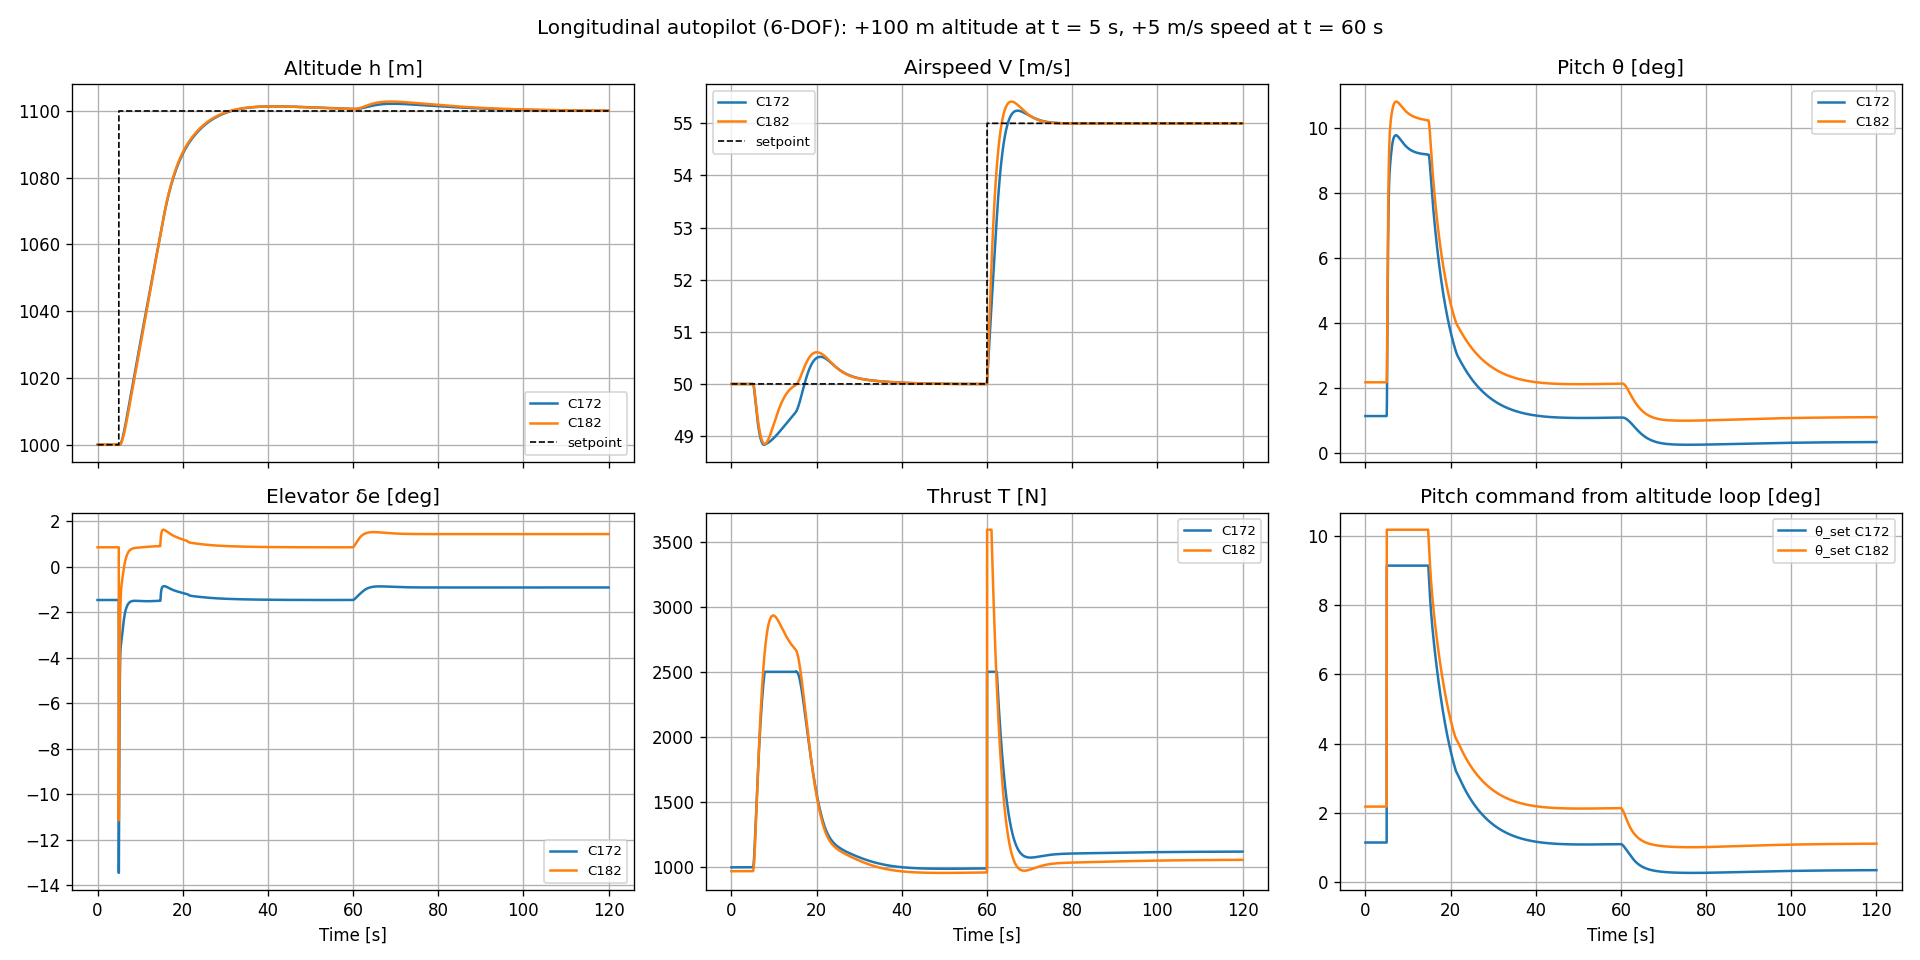
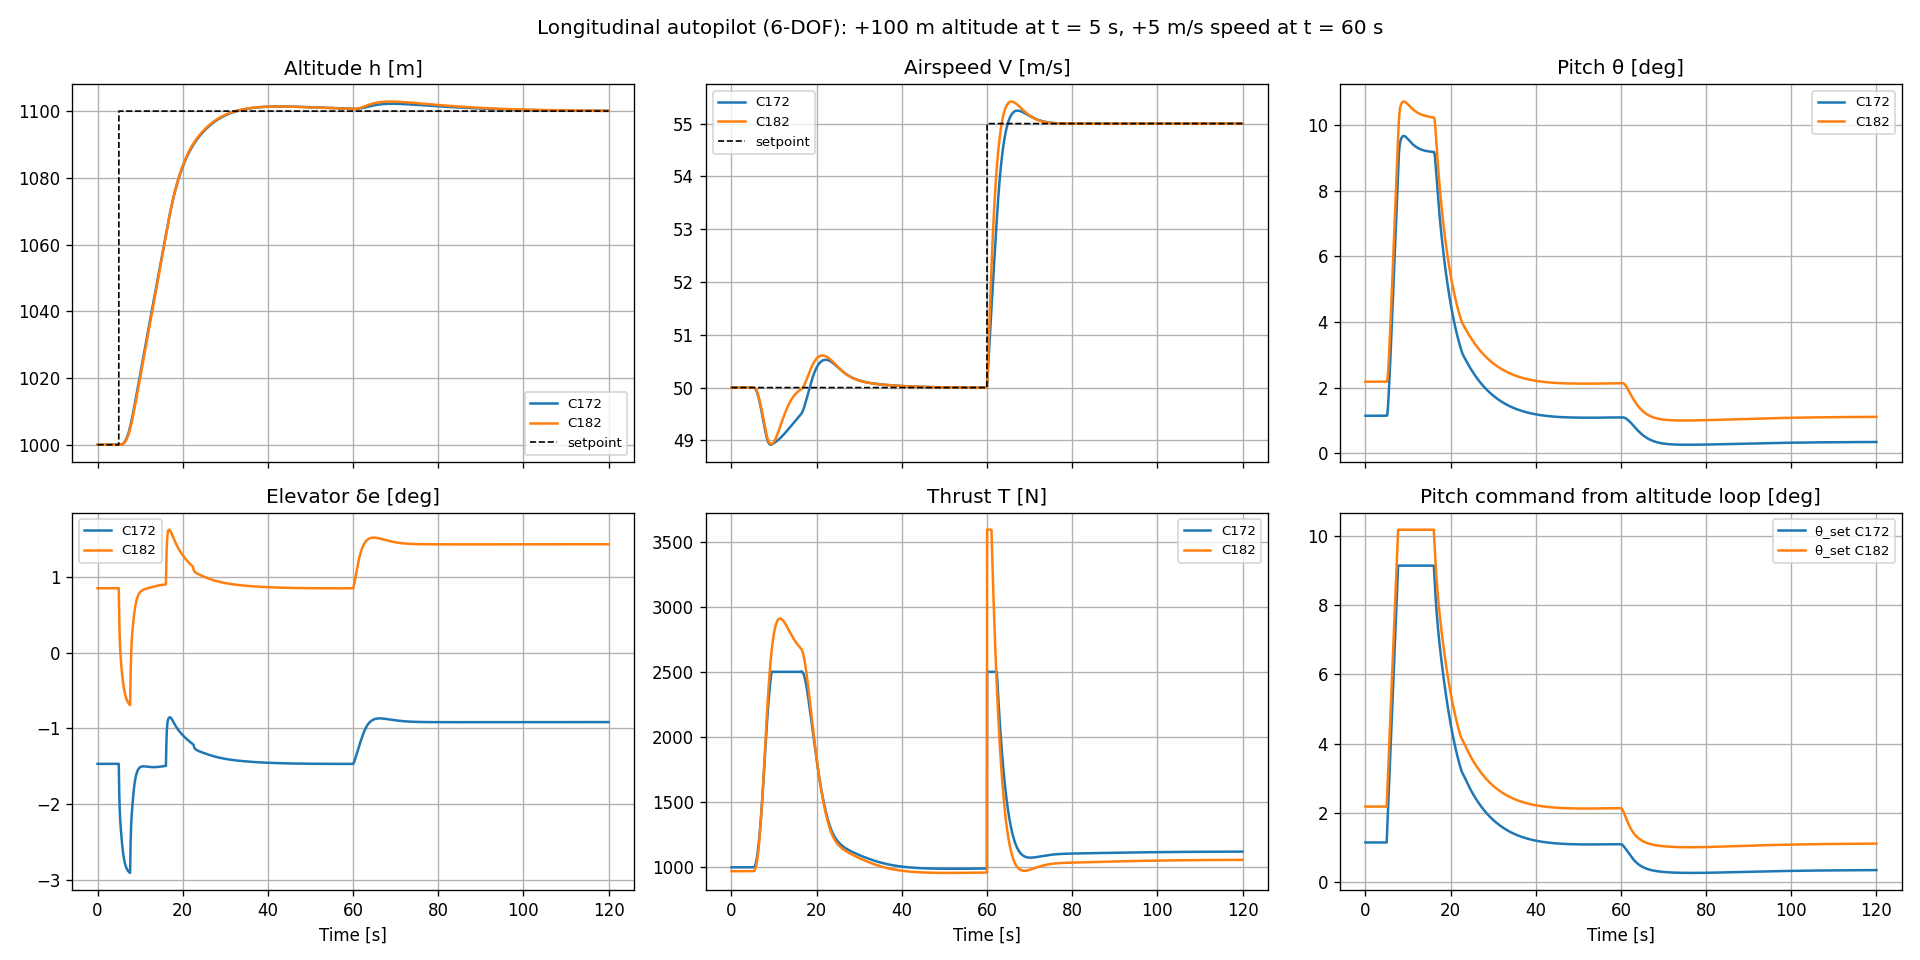
LQI longitudinal autopilot with gain scheduling, comparison with PID

diff --git a/src/aircraft/autopilot_lon_lqi.py b/src/aircraft/autopilot_lon_lqi.py
@@ -1,0 +1,184 @@
+"""
+Longitudinal autopilot as ONE MIMO controller: gain-scheduled LQI for altitude + airspeed.
+
+    States (longitudinal part of the 6-DOF state): x_lon = [u, w, q, theta, h]
+    Inputs:                                       [delta_e, T]
+    Tracked outputs:                              y = [V, h]
+    Integrators:                                  z_dot = r - y
+    Control law:  c = c0(V_set) - Kx(V) (x_lon - x0(V_set, h_set)) - Kz(V) z
+
+Gain scheduling (same idea as in Phase 3):
+    Kx, Kz   interpolated at the MEASURED airspeed
+    x0, c0   interpolated at the COMMANDED airspeed (feedforward of the trim point)
+"""
+import os
+import numpy as np
+import control as ct
+import matplotlib.pyplot as plt
+import aircraft
+from aircraft import p
+import flightdynamics_6dof as m6
+from trim_6dof import trim_6dof, linearize_6dof
+from autopilot_lon import LongitudinalAutopilot
+
+LON = [m6.U, m6.W, m6.Q, m6.THETA, m6.H]
+INPUTS = [m6.DE, m6.TH]
+V_GRID = np.arange(30.0, 65.01, 5.0)
+
+# Bryson weights: maximum acceptable deviations
+X_MAX = [2.0, 2.0, np.deg2rad(10.0), np.deg2rad(5.0), 10.0,   # du, dw, q, theta, h
+         5.0, 50.0]                                            # z_V [m], z_h [m·s]
+U_MAX = [np.deg2rad(10.0), 1000.0]                             # delta_e [rad], T [N]
+
+
+def design_point(V, h=1000.0):
+    """Trim, linearize and solve the LQI problem at one airspeed."""
+    x0, c0 = trim_6dof(V, h=h)
+    A, B = linearize_6dof(x0, c0)
+    A5, B2 = A[np.ix_(LON, LON)], B[np.ix_(LON, INPUTS)]
+    u0, w0 = x0[m6.U], x0[m6.W]
+    C = np.array([[u0 / V, w0 / V, 0, 0, 0],       # dV ≈ (u0 du + w0 dw) / V
+                  [0, 0, 0, 0, 1]])                 # dh
+    A_aug = np.block([[A5, np.zeros((5, 2))], [-C, np.zeros((2, 2))]])
+    B_aug = np.vstack([B2, np.zeros((2, 2))])
+    if np.linalg.matrix_rank(ct.ctrb(A_aug, B_aug)) < 7:
+        raise RuntimeError(f"not controllable at V = {V}")
+    Q = np.diag(1 / np.array(X_MAX)**2)
+    R = np.diag(1 / np.array(U_MAX)**2)
+    K, _, poles = ct.lqr(A_aug, B_aug, Q, R)
+    return x0[LON], c0, K[:, :5], K[:, 5:], poles
+
+
+def build_schedule():
+    rows = [design_point(V) for V in V_GRID]
+    return {"x0": np.array([r[0] for r in rows]), "c0": np.array([r[1] for r in rows]),
+            "Kx": np.array([r[2] for r in rows]), "Kz": np.array([r[3] for r in rows])}
+
+
+def interp(table, key, V):
+    data = table[key]
+    flat = data.reshape(len(V_GRID), -1)
+    vals = [np.interp(V, V_GRID, flat[:, i]) for i in range(flat.shape[1])]
+    return np.array(vals).reshape(data.shape[1:])
+
+
+class LQIAutopilotLon:
+    def __init__(self, schedule):
+        self.s = schedule
+        self.z = np.zeros(2)
+
+    def step(self, x, h_set, V_set, dt):
+        V, _, _ = m6.air_data(x)
+        x0 = interp(self.s, "x0", V_set)
+        x0[4] = h_set                                  # target altitude replaces trim altitude
+        c0 = interp(self.s, "c0", V_set)
+        Kx, Kz = interp(self.s, "Kx", V), interp(self.s, "Kz", V)
+
+        e = np.array([V_set - V, h_set - x[m6.H]])
+        u_cmd = c0[INPUTS] - Kx @ (x[LON] - x0) - Kz @ self.z
+        lo = np.array([p.delta_e_min, p.T_min])
+        hi = np.array([p.delta_e_max_6dof, p.T_max])
+        u = np.clip(u_cmd, lo, hi)
+
+        # anti-windup: freeze integrators if a saturated input would be driven further
+        freeze = any(u[j] != u_cmd[j] and np.sign(-Kz[j] @ e) == np.sign(u_cmd[j] - u[j])
+                     for j in range(2))
+        if not freeze:
+            self.z += e * dt
+
+        c = c0.copy()
+        c[m6.DE], c[m6.TH] = u
+        return c, None
+
+
+def shaped_refs(h0, V0, dh=100.0, dV=5.0, climb_rate=5.0, accel=1.0):
+    """Same smooth reference for both controllers: altitude ramp 5 m/s, speed ramp 1 m/s²."""
+    def refs(t):
+        h = h0 + np.clip((t - 5.0) * climb_rate, 0.0, dh)
+        V = V0 + np.clip((t - 60.0) * accel, 0.0, dV)
+        return h, V
+    return refs
+
+
+def simulate(name, make_controller, V0=50.0, h0=1000.0, t_end=120.0, dt=0.01, refs=None):
+    aircraft.load(name)
+    x, c0 = trim_6dof(V0, h=h0)
+    ctrl = make_controller(x, c0)
+    refs = refs or shaped_refs(h0, V0)
+    log = {k: [] for k in ["t", "h", "h_set", "V", "V_set", "de", "T"]}
+    for t in np.arange(0.0, t_end, dt):
+        h_set, V_set = refs(t)
+        c, _ = ctrl.step(x, h_set, V_set, dt)
+        x = m6.rk4_step(x, c, dt)
+        V, _, _ = m6.air_data(x)
+        for k, v in zip(log, [t, x[m6.H], h_set, V, V_set, np.rad2deg(c[m6.DE]), c[m6.TH]]):
+            log[k].append(v)
+    aircraft.load(aircraft.DEFAULT)
+    return {k: np.array(v) for k, v in log.items()}
+
+
+def pid_factory(x, c0):
+    return LongitudinalAutopilot(x, c0)
+
+
+def lqi_factory_for(name):
+    aircraft.load(name)
+    schedule = build_schedule()
+    return lambda x, c0: LQIAutopilotLon(schedule)
+
+
+def summary(r):
+    climb = (r["t"] >= 5) & (r["t"] < 60)
+    accel = r["t"] >= 60
+    return {
+        "max |h err| climb [m]": np.abs(r["h"] - r["h_set"])[climb].max(),
+        "max |V err| climb [m/s]": np.abs(r["V"] - r["V_set"])[climb].max(),
+        "max |h err| speed change [m]": np.abs(r["h"] - r["h_set"])[accel].max(),
+        "max |V err| speed change [m/s]": np.abs(r["V"] - r["V_set"])[accel].max(),
+        "elevator range [deg]": r["de"].max() - r["de"].min(),
+    }
+
+
+if __name__ == "__main__":
+    os.makedirs("results", exist_ok=True)
+    np.set_printoptions(precision=3, suppress=True)
+
+    # Show the gains at one design point
+    aircraft.load("c172")
+    _, _, Kx, Kz, poles = design_point(50.0)
+    print("C172 LQI at 50 m/s  (rows: delta_e, T)")
+    print("Kx  [u, w, q, theta, h] =\n", Kx)
+    print("Kz  [z_V, z_h] =\n", Kz)
+
+    runs = {}
+    for name in ["c172", "c182"]:
+        runs[(name, "PID")] = simulate(name, pid_factory)
+        runs[(name, "LQI")] = simulate(name, lqi_factory_for(name))
+
+    keys = list(summary(runs[("c172", "PID")]).keys())
+    print(f"\n{'':32s}" + "".join(f"{n.upper()+' '+c:>12s}" for n, c in runs))
+    for k in keys:
+        print(f"{k:32s}" + "".join(f"{summary(r)[k]:12.2f}" for r in runs.values()))
+
+    fig, ax = plt.subplots(2, 2, figsize=(14, 8), sharex=True)
+    styles = {"PID": "-", "LQI": "--"}
+    colors = {"c172": "#2a6fdb", "c182": "#e8782a"}
+    for (name, ctrl), r in runs.items():
+        lab = f"{name.upper()} {ctrl}"
+        ax[0, 0].plot(r["t"], r["h"] - r["h_set"], styles[ctrl], color=colors[name], label=lab)
+        ax[0, 1].plot(r["t"], r["V"] - r["V_set"], styles[ctrl], color=colors[name], label=lab)
+        ax[1, 0].plot(r["t"], r["de"], styles[ctrl], color=colors[name], label=lab)
+        ax[1, 1].plot(r["t"], r["T"], styles[ctrl], color=colors[name], label=lab)
+    titles = ["Altitude tracking error h - h_set [m]", "Speed tracking error V - V_set [m/s]",
+              "Elevator δe [deg]", "Thrust T [N]"]
+    for a, tt in zip(ax.flat, titles):
+        a.set_title(tt); a.grid(); a.legend(fontsize=8)
+        a.axvspan(5, 25, color="#999999", alpha=0.12)
+        a.axvspan(60, 65, color="#999999", alpha=0.12)
+    for a in ax[1]:
+        a.set_xlabel("Time [s]")
+    fig.suptitle("PID cascade (solid) vs. gain-scheduled LQI (dashed): climb +100 m (grey 5–25 s), "
+                 "then +5 m/s (grey 60–65 s)")
+    plt.tight_layout()
+    plt.savefig("results/autopilot_lon_pid_vs_lqi.png", dpi=120)
+    plt.show()

diff --git a/src/aircraft/autopilot_lon.py b/src/aircraft/autopilot_lon.py
@@ -22,6 +22,7 @@ class LongitudinalAutopilot:
     Kh, Ki_h, K_vs = 0.006, 0.0003, 0.012        # [rad/m], [rad/(m·s)], [rad/(m/s)]  (tuned)
     I_h_band = 10.0                              # integrate altitude error only within ±10 m
     theta_cmd_max = np.deg2rad(8.0)              # pitch command limit (relative to trim)
+    theta_rate_max = np.deg2rad(3.0)             # pitch command rate limit [rad/s] (comfort)
     # Speed loop: PI with gains from the desired closed-loop dynamics (see Phase 3)
     wn_v, zeta_v = 0.5, 0.8
 
@@ -31,6 +32,7 @@ class LongitudinalAutopilot:
         self.Kp_v = 2 * self.zeta_v * self.wn_v * p.m
         self.Ki_v = self.wn_v**2 * p.m
         self.I_th = self.I_h = self.I_v = 0.0
+        self.theta_set = self.theta_trim            # rate-limited pitch command (memory)
 
     def step(self, x, h_set, V_set, dt):
         V, alpha, _ = m6.air_data(x)
@@ -44,7 +46,11 @@ class LongitudinalAutopilot:
         # anti-windup: integrate only near the target altitude and when not limited
         if theta_cmd_sat == theta_cmd and abs(e_h) < self.I_h_band:
             self.I_h += e_h * dt
-        theta_set = self.theta_trim + theta_cmd_sat
+        # rate limiter: the pitch command may change by at most theta_rate_max per second
+        target = self.theta_trim + theta_cmd_sat
+        max_step = self.theta_rate_max * dt
+        self.theta_set += np.clip(target - self.theta_set, -max_step, max_step)
+        theta_set = self.theta_set
 
         # ---- inner loop: pitch attitude -> elevator ----
         e_th = theta_set - theta
